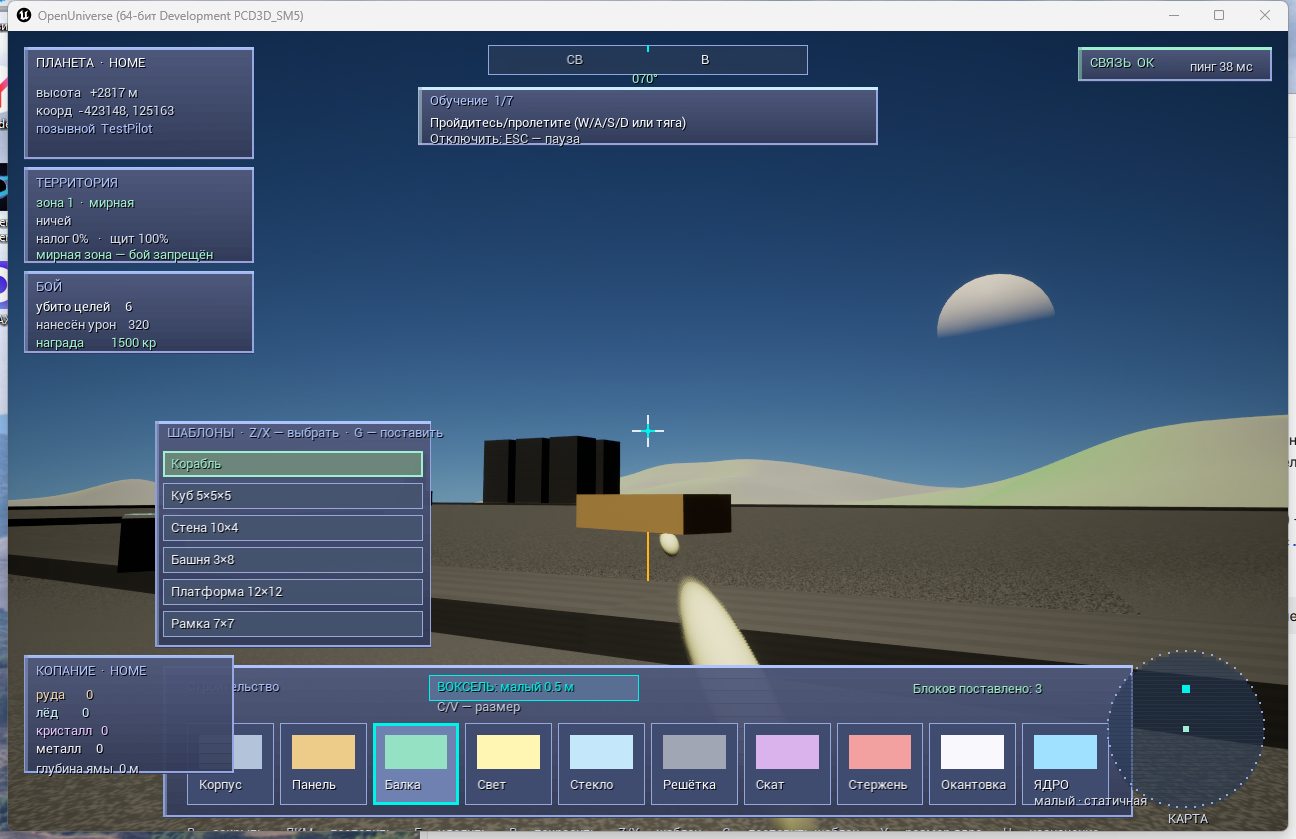
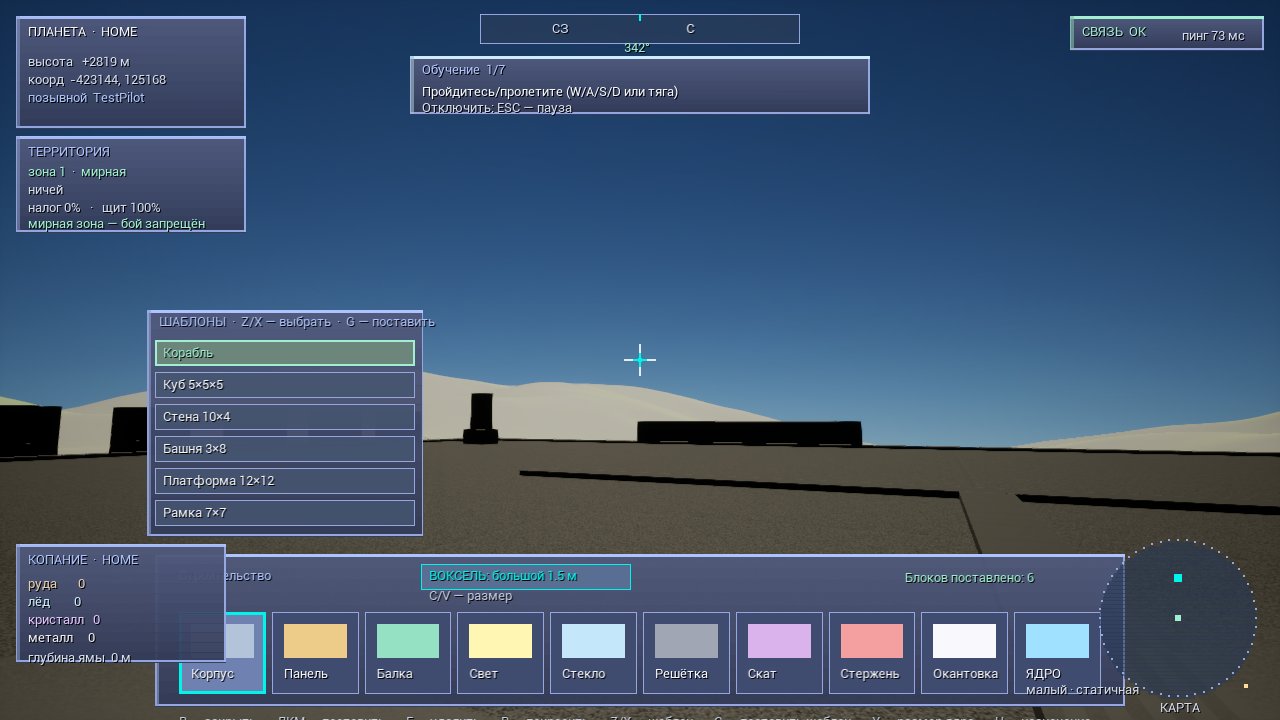
release: v0.84.0

diff --git a/i18n.js b/i18n.js
@@ -1,4 +1,4 @@
-/* Open Universe — переводы сайта.
+/* Open Universe — переводы сайта.
  *
  * Английский — язык по умолчанию, русский — переключателем в шапке.
  * HTML содержит английский текст (работает даже без JS); русский берётся отсюда.
@@ -284,7 +284,7 @@ window.OU_I18N = {
     "rep.title": "Open Universe — отчёт о разработке",
     "rep.nav.home": "← На главную",
     "rep.h1": "Отчёт о разработке",
-    "rep.intro": "Что уже работает, с доказательствами: скриншотами движка, метриками и результатами тестов. Версия <b>0.83.0</b>.",
+    "rep.intro": "Что уже работает, с доказательствами: скриншотами движка, метриками и результатами тестов. Версия <b>0.84.0</b>.",
     "rep.m.tests": "тестов ядра (Rust)",
     "rep.m.crates": "модулей (крейтов)",
     "rep.m.progress": "план выполнен",
@@ -394,12 +394,17 @@ window.OU_I18N = {
     "rep.market.lead": "Экономика проверена работающей симуляцией: агенты трёх ролей торгуют 200 тиков, деньги не печатаются. Модель — в <code>docs/economy-model.md</code>.",
     "rep.code.market": "$ cargo run -p ou-economy --bin ou-market-sim\n=== Сбалансированная экономика ===\n  цена: min 7, max 65, VWAP 25\n  активных тиков: 192 из 200 (96%)\n  проверка денег: создано/сожжено кредитов = 0\n=== Дефицит ===  цена растёт   === Избыток ===  VWAP падает до 10",
     "rep.h.build": "Воксельный редактор",
-    "rep.build.lead": "Игрок строит из вокселей: ставить, удалять, красить. Сетка разрежённая, целостность проверяется от ядра.",
+    "rep.build.lead": "Игрок строит из вокселей: ставить, удалять, красить. Сетка разрежённая, целостность проверяется от ядра. Ядра бывают размеров (16/32/64 вокселя) и трёх видов — статичная база, корабль и динамическое — с лимитами на игрока (2 / 3 / 2), а строить можно и без заранее поставленного ядра (постройку основывает первый воксель).",
     "rep.code.build": "$ cargo run -p ou-build --bin ou-build-demo\n=== Оторванный воксель ===  запрещено: оторван от ядра\n=== Ломаем середину ===     снято оторванных деталей: 1\n=== Шаблон корабля ===      31 воксель, связность ОК\n=== Детерминизм ===         повтор совпадает",
+    "rep.h.building": "Строительство в живой игре",
+    "rep.building.lead": "Кадры ниже — из реального запуска клиента на втором ПК, который ведёт сам автотест: клики мышью не нужны. Воксели по полметра, девять типов блоков в палитре, ядра с лимитами и коллизия — персонаж не проходит сквозь построенное.",
+    "rep.fig.palette": "Стройка вокселями (базовая ступень 0.5 м). В палитре внизу — девять типов блоков (корпус, панель, балка, свет, стекло, решётка, скат, стержень, окантовка) и слот <b>ЯДРО</b>; размер кисти переключается <code>C/V</code>.",
+    "rep.fig.voxelsizes": "Окно размеров вокселя (<code>V</code>): кисти 0.5 / 1 / 1.5 м. Блоки разного размера стыкуются гранями.",
     "rep.h.ue": "Каркас UE5-клиента и проверка протокола",
     "rep.ue.lead": "Движок Unreal Engine 5 установлен, C++-модуль <b>собран, редактор открывает 3D-сцену</b>, и клиент <b>подключается к Rust-серверу</b>: получает свой id, шлёт ввод 30 Гц и рисует других игроков. Стенд берёт реальный пакет Rust-сервера и разбирает его тем же кодом, что и клиент UE5.",
     "rep.fig.ueeditor": "Редактор Unreal Engine 5, карта <code>/Game/Maps/OpenUniverse</code>: воксельная планета (cube-to-sphere, рельеф из двух октав шума, цвет по высоте — океан → трава → снег). Сцена достраивается автоматически в <code>AOUGameMode</code>.",
     "rep.fig.shipping": "<b>Готовая игра</b> <code>OpenUniverse.exe</code> — собранная Shipping-версия: запускается двойным кликом <b>без установки Unreal Engine</b>. Ставится установщиком <code>OpenUniverse-Game-Setup</code> (~180 МБ): ярлыки в меню «Пуск» и на рабочем столе.",
+    "rep.h.solarsystem": "Звёздная система и игрок пешком",
     "rep.fig.uegame": "Режим игры (PIE) в UE5: игрок смотрит от первого лица с поверхности единственной большой планеты, рядом стоит корабль. Кадр сохранён <b>из движка</b>. Клиент при этом подключён к Rust-серверу.",
     "rep.fig.latest": "<b>Свежий кадр с UE-теста</b> (<code>tools/test-ue.ps1</code>): вид от первого лица, игрок стоит на поверхности большой планеты, горизонт уходит далеко и читается как земля. Этот снимок обновляется при каждом прогоне теста.",
     "rep.fig.solarsystem": "Одна большая планета радиусом 500 км и рельефом в 10 км. Остальные тела системы убраны: мир состоит из единственной планеты, а вид — от первого лица (как в классических шутерах).",
@@ -430,7 +435,7 @@ window.OU_I18N = {
     "rep.metric12": "Порог мягкой посадки",
     "rep.metric12v": "60 ед/с (иначе удар)",
     "rep.s4": "4. Результаты тестов",
-    "rep.code.tests": "$ cargo test --workspace   →  252 passed (13 крейтов)\n\nprotocol 22 · sim 31 · spatial 6 · net 5 · shard 9 · persist 14\neconomy 27 · combat 17 · render 37 · script 32 · build 15 · server 31 · client 6\n\n$ cargo run -p ou-combat --bin ou-combat-demo\n=== Шанс попадания (1000 выстрелов) ===\n  автопушка  дальность 1500:  97%  80%  62%  44%  31%\n=== Дуэль: лазер против рельсотрона ===\n  тик 27: щит 0 (0%), броня 0 (0%)  ← уничтожен\n\n$ cargo run -p ou-economy --bin ou-market-demo\n  сделка: продавец 2 → покупатель 9, 60 шт по 25 (итого 1500)\nVWAP = 26 · Всего сделок в журнале: 2\n\n$ cargo run -p ou-render --release -- voxel 900 506\n  voxel      900×506  17.44 с\n\n$ cargo run -p ou-render --release -- dig 640 360\n  dig        2 кадра → 1280×360  18.52 с  -> render-dig.png\n\n$ cargo run -p ou-server --bin ou-netd -- 127.0.0.1:7777 10 &\n$ cargo run -p ou-render --release --bin ou-netrender -- 127.0.0.1:7777 8 4\n  получено baseline: 1 · дельт: 236 · сохранено 4 кадра -> render-net.png",
+    "rep.code.tests": "$ cargo test --workspace   →  351 passed (13 крейтов)\n\nprotocol 33 · sim 33 · spatial 6 · net 5 · shard 9 · persist 14\neconomy 32 · combat 17 · render 37 · script 34 · build 20 · server 101 · client 6 · auth 4\n\n$ cargo run -p ou-combat --bin ou-combat-demo\n=== Шанс попадания (1000 выстрелов) ===\n  автопушка  дальность 1500:  97%  80%  62%  44%  31%\n=== Дуэль: лазер против рельсотрона ===\n  тик 27: щит 0 (0%), броня 0 (0%)  ← уничтожен\n\n$ cargo run -p ou-economy --bin ou-market-demo\n  сделка: продавец 2 → покупатель 9, 60 шт по 25 (итого 1500)\nVWAP = 26 · Всего сделок в журнале: 2\n\n$ cargo run -p ou-render --release -- voxel 900 506\n  voxel      900×506  17.44 с\n\n$ cargo run -p ou-render --release -- dig 640 360\n  dig        2 кадра → 1280×360  18.52 с  -> render-dig.png\n\n$ cargo run -p ou-server --bin ou-netd -- 127.0.0.1:7777 10 &\n$ cargo run -p ou-render --release --bin ou-netrender -- 127.0.0.1:7777 8 4\n  получено baseline: 1 · дельт: 236 · сохранено 4 кадра -> render-net.png",
     "rep.s5": "5. Что дальше",
     "rep.next1": "Рендер по сети — рисовать входящие UDP-снапшоты в реальном времени. ✓",
     "rep.next2": "Посадка корабля на воксельную поверхность (связь физики и рельефа). ✓",
@@ -438,8 +443,11 @@ window.OU_I18N = {
     "rep.next4": "Kubernetes и автомасштабирование (единственный пункт Фазы 3).",
     "rep.next5": "Lua-скриптинг конструкций (Фаза 8). ✓",
     "rep.next6": "Каркас проекта на Unreal Engine 5. ✓ подключён к серверу",
+    "rep.next7": "Полная проверка графики на втором ПК: стенд сам доставляет код по SSH, водит игру и снимает кадры. ✓",
+    "rep.next8": "Несколько ядер на игрока с лимитами и стройка без заранее поставленного ядра. ✓",
+    "rep.next9": "Мельче воксели (0.5 м), девять типов блоков и коллизия — персонаж не проходит сквозь. ✓",
     "rep.s6": "6. Итог",
-    "rep.summary": "Проект прошёл путь от концепта до <b>работающего ядра на Rust</b>: детерминированная симуляция, сетевой код с предсказанием, экономика, бой, персистентность и собственный рендерер, который рисует воксельные планеты и реальный мир из симуляции. План выполнен на <b>52%</b>.",
+    "rep.summary": "Проект прошёл путь от концепта до <b>работающего ядра на Rust</b>: детерминированная симуляция, сетевой код с предсказанием, экономика, бой, персистентность и собственный рендерер, который рисует воксельные планеты и реальный мир из симуляции. План выполнен на <b>90%</b>.",
     "rep.repo": "Репозиторий: <a href=\"https://github.com/andreyshpak2016-lgtm/open-universe\">github.com/andreyshpak2016-lgtm/open-universe</a>",
     "rep.back": "← Вернуться на главную",
     "rep.updated": "Отчёт обновлён"
@@ -704,7 +712,7 @@ window.OU_I18N = {
     "rep.title": "Open Universe — development report",
     "rep.nav.home": "← Back to home",
     "rep.h1": "Development report",
-    "rep.intro": "What already works, with evidence: engine screenshots, metrics and test results. Version <b>0.83.0</b>.",
+    "rep.intro": "What already works, with evidence: engine screenshots, metrics and test results. Version <b>0.84.0</b>.",
     "rep.m.tests": "core tests (Rust)",
     "rep.m.crates": "modules (crates)",
     "rep.m.progress": "plan complete",
@@ -814,12 +822,17 @@ window.OU_I18N = {
     "rep.market.lead": "The economy is verified by a running simulation: agents in three roles trade for 200 ticks, and money is not printed. The model is in <code>docs/economy-model.md</code>.",
     "rep.code.market": "$ cargo run -p ou-economy --bin ou-market-sim\n=== Balanced economy ===\n  price: min 7, max 65, VWAP 25\n  active ticks: 192 of 200 (96%)\n  money check: credits created/destroyed = 0\n=== Shortage ===  price rises   === Surplus ===  VWAP falls to 10",
     "rep.h.build": "Voxel editor",
-    "rep.build.lead": "A player builds from voxels: place, remove, paint. The grid is sparse and integrity is checked against the core.",
+    "rep.build.lead": "A player builds from voxels: place, remove, paint. The grid is sparse and integrity is checked against the core. Cores come in sizes (16/32/64 voxels) and three kinds — static base, ship and dynamic — with per-kind limits (2 / 3 / 2), and you can build without pre-placing a core (the first voxel founds the build).",
     "rep.code.build": "$ cargo run -p ou-build --bin ou-build-demo\n=== Detached voxel ===  forbidden: detached from the core\n=== Break the middle ===  detached parts removed: 1\n=== Ship blueprint ===     31 voxels, connectivity OK\n=== Determinism ===        repeat matches",
+    "rep.h.building": "Building in the live game",
+    "rep.building.lead": "The frames below are from a real client run on a second PC, driven by the automated test itself — no mouse clicks. Half-metre voxels, nine block types in the palette, cores with limits, and collision: the character cannot walk through what was built.",
+    "rep.fig.palette": "Voxels being built (0.5 m base step). The palette at the bottom shows nine block types (hull, panel, beam, light, glass, grille, ramp, rod, trim) and the <b>CORE</b> slot; brush size is switched with <code>C/V</code>.",
+    "rep.fig.voxelsizes": "The voxel-size window (<code>V</code>): 0.5 / 1 / 1.5 m brushes. Blocks of different sizes connect face to face.",
     "rep.h.ue": "UE5 client skeleton and protocol verification",
     "rep.ue.lead": "Unreal Engine 5 is installed, the C++ module <b>builds and the editor opens a 3D scene</b>, and the client <b>connects to the Rust server</b>: it receives its own id, sends input at 30 Hz and draws other players. The test harness takes a real Rust server packet and parses it with the same code as the UE5 client.",
     "rep.fig.ueeditor": "The Unreal Engine 5 editor, map <code>/Game/Maps/OpenUniverse</code>: a voxel planet (cube-to-sphere, terrain from two octaves of noise, color by height — ocean → grass → snow). The scene is assembled automatically in <code>AOUGameMode</code>.",
     "rep.fig.shipping": "<b>The finished game</b> <code>OpenUniverse.exe</code> — a built Shipping version: it launches on a double click <b>without installing Unreal Engine</b>. It is installed by <code>OpenUniverse-Game-Setup</code> (~180 MB): shortcuts in the Start menu and on the desktop.",
+    "rep.h.solarsystem": "Solar system and the player on foot",
     "rep.fig.uegame": "Play mode (PIE) in UE5: the player looks first-person across the surface of a single large planet, with the ship standing nearby. The frame was saved <b>by the engine</b>. The client is connected to the Rust server.",
     "rep.fig.latest": "<b>Fresh frame from the UE test</b> (<code>tools/test-ue.ps1</code>): first-person view, the player stands on the surface of a large planet, and the horizon stretches far away reading as land. This shot is refreshed on every test run.",
     "rep.fig.solarsystem": "A single large planet, 500 km in radius with 10 km of terrain relief. Other system bodies are removed: the world is one planet, and the view is first-person (like classic shooters).",
@@ -850,7 +863,7 @@ window.OU_I18N = {
     "rep.metric12": "Soft landing threshold",
     "rep.metric12v": "60 u/s (otherwise impact)",
     "rep.s4": "4. Test results",
-    "rep.code.tests": "$ cargo test --workspace   →  252 passed (13 crates)\n\nprotocol 22 · sim 31 · spatial 6 · net 5 · shard 9 · persist 14\neconomy 27 · combat 17 · render 37 · script 32 · build 15 · server 31 · client 6\n\n$ cargo run -p ou-combat --bin ou-combat-demo\n=== Hit chance (1000 shots) ===\n  autocannon  range 1500:  97%  80%  62%  44%  31%\n=== Duel: laser vs railgun ===\n  tick 27: shield 0 (0%), armor 0 (0%)  ← destroyed\n\n$ cargo run -p ou-economy --bin ou-market-demo\n  trade: seller 2 → buyer 9, 60 units at 25 (total 1500)\nVWAP = 26 · Trades in the log: 2\n\n$ cargo run -p ou-render --release -- voxel 900 506\n  voxel      900×506  17.44 s\n\n$ cargo run -p ou-render --release -- dig 640 360\n  dig        2 frames → 1280×360  18.52 s  -> render-dig.png\n\n$ cargo run -p ou-server --bin ou-netd -- 127.0.0.1:7777 10 &\n$ cargo run -p ou-render --release --bin ou-netrender -- 127.0.0.1:7777 8 4\n  baseline received: 1 · deltas: 236 · saved 4 frames -> render-net.png",
+    "rep.code.tests": "$ cargo test --workspace   →  351 passed (13 crates)\n\nprotocol 33 · sim 33 · spatial 6 · net 5 · shard 9 · persist 14\neconomy 32 · combat 17 · render 37 · script 34 · build 20 · server 101 · client 6 · auth 4\n\n$ cargo run -p ou-combat --bin ou-combat-demo\n=== Hit chance (1000 shots) ===\n  autocannon  range 1500:  97%  80%  62%  44%  31%\n=== Duel: laser vs railgun ===\n  tick 27: shield 0 (0%), armor 0 (0%)  ← destroyed\n\n$ cargo run -p ou-economy --bin ou-market-demo\n  trade: seller 2 → buyer 9, 60 units at 25 (total 1500)\nVWAP = 26 · Trades in the log: 2\n\n$ cargo run -p ou-render --release -- voxel 900 506\n  voxel      900×506  17.44 s\n\n$ cargo run -p ou-render --release -- dig 640 360\n  dig        2 frames → 1280×360  18.52 s  -> render-dig.png\n\n$ cargo run -p ou-server --bin ou-netd -- 127.0.0.1:7777 10 &\n$ cargo run -p ou-render --release --bin ou-netrender -- 127.0.0.1:7777 8 4\n  baseline received: 1 · deltas: 236 · saved 4 frames -> render-net.png",
     "rep.s5": "5. What's next",
     "rep.next1": "Networked rendering — draw incoming UDP snapshots in real time. ✓",
     "rep.next2": "Landing a ship on a voxel surface (linking physics and terrain). ✓",
@@ -858,8 +871,11 @@ window.OU_I18N = {
     "rep.next4": "Kubernetes and autoscaling (the only Phase 3 item left).",
     "rep.next5": "Lua scripting for constructions (Phase 8). ✓",
     "rep.next6": "Unreal Engine 5 project skeleton. ✓ connected to the server",
+    "rep.next7": "Full graphics test on a second PC: the harness ships the code over SSH, drives the game itself and captures frames. ✓",
+    "rep.next8": "Multiple cores per player with limits, and building without a pre-placed core. ✓",
+    "rep.next9": "Smaller voxels (0.5 m), nine block types and collision. ✓",
     "rep.s6": "6. Summary",
-    "rep.summary": "The project has gone from concept to a <b>working Rust core</b>: deterministic simulation, netcode with prediction, economy, combat, persistence and a custom renderer that draws voxel planets and the real world from the simulation. The plan is <b>52%</b> complete.",
+    "rep.summary": "The project has gone from concept to a <b>working Rust core</b>: deterministic simulation, netcode with prediction, economy, combat, persistence and a custom renderer that draws voxel planets and the real world from the simulation. The plan is <b>90%</b> complete.",
     "rep.repo": "Repository: <a href=\"https://github.com/andreyshpak2016-lgtm/open-universe\">github.com/andreyshpak2016-lgtm/open-universe</a>",
     "rep.back": "← Back to home",
     "rep.updated": "Report updated"

diff --git a/report.html b/report.html
@@ -1,4 +1,4 @@
-<!DOCTYPE html>
+<!DOCTYPE html>
 <html lang="en">
 <head>
   <meta charset="UTF-8" />
@@ -6,7 +6,7 @@
   <title data-i18n="rep.title">Open Universe — development report</title>
   <meta name="description" content="Open Universe development report: what is done, engine screenshots, metrics and test results." />
   <link rel="icon" href="assets/blackhole.svg" type="image/svg+xml" />
-  <link rel="stylesheet" href="styles.css?v=0.83.0" />
+  <link rel="stylesheet" href="styles.css?v=0.84.0" />
   <style>
     .report { max-width: 1100px; margin: 0 auto; padding: 0 24px 80px; }
     .report h1 { font-size: clamp(2rem, 5vw, 3rem); margin: 40px 0 8px; letter-spacing: -1px;
@@ -51,13 +51,13 @@
 
   <main class="report">
     <h1 data-i18n="rep.h1">Development report</h1>
-    <p style="font-size:1.05rem" data-i18n="rep.intro">What already works, with evidence: engine screenshots, metrics and test results. Version <b id="ver">0.83.0</b>.</p>
+    <p style="font-size:1.05rem" data-i18n="rep.intro">What already works, with evidence: engine screenshots, metrics and test results. Version <b id="ver">0.84.0</b>.</p>
 
     <div class="meta">
-      <div><b id="m-tests">223</b><span data-i18n="rep.m.tests">core tests (Rust)</span></div>
+      <div><b id="m-tests">351</b><span data-i18n="rep.m.tests">core tests (Rust)</span></div>
       <div><b id="m-crates">13</b><span data-i18n="rep.m.crates">modules (crates)</span></div>
-      <div><b id="m-progress">73%</b><span data-i18n="rep.m.progress">plan complete</span></div>
-      <div><b id="m-version">v0.83.0</b><span data-i18n="rep.m.version">latest release</span></div>
+      <div><b id="m-progress">90%</b><span data-i18n="rep.m.progress">plan complete</span></div>
+      <div><b id="m-version">v0.84.0</b><span data-i18n="rep.m.version">latest release</span></div>
     </div>
 
     <!-- ================= 1. What is done ================= -->
@@ -234,12 +234,25 @@ $ cargo run -p ou-script --bin ou-script-demo
 === Shortage ===  price rises   === Surplus ===  VWAP falls to 10</code></pre>
 
     <h3 data-i18n="rep.h.build">Voxel editor</h3>
-    <p data-i18n="rep.build.lead">A player builds from voxels: place, remove, paint. The grid is sparse and integrity is checked against the core.</p>
+    <p data-i18n="rep.build.lead">A player builds from voxels: place, remove, paint. The grid is sparse and integrity is checked against the core. Cores come in sizes (16/32/64 voxels) and three kinds — static base, ship and dynamic — with per-kind limits (2 / 3 / 2), and you can build without pre-placing a core (the first voxel founds the build).</p>
     <pre class="codeblock"><code data-i18n="rep.code.build">$ cargo run -p ou-build --bin ou-build-demo
 === Detached voxel ===  forbidden: detached from the core
 === Break the middle ===  detached parts removed: 1
 === Ship blueprint ===     31 voxels, connectivity OK
 === Determinism ===        repeat matches</code></pre>
+
+    <h3 data-i18n="rep.h.building">Building in the live game</h3>
+    <p data-i18n="rep.building.lead">Frames below come from a real run of the client on a second PC, driven by the automated test itself — no mouse clicks. Half-metre voxels, nine block types in the palette, cores with limits, and collision: the character cannot walk through what was built.</p>
+    <div class="two">
+      <figure class="shot">
+        <img src="assets/ue-build-palette.png" alt="Live build run: palette with nine block types and the CORE slot, voxels placed in the world" />
+        <figcaption data-i18n="rep.fig.palette">Voxels being built (0.5 m base step). The palette at the bottom shows nine block types (hull, panel, beam, light, glass, grille, ramp, rod, trim) and the <b>CORE</b> slot; brush size is switched with <code>C/V</code>.</figcaption>
+      </figure>
+      <figure class="shot">
+        <img src="assets/ue-voxel-sizes.png" alt="Voxel size window: 1×1, 2×2, 3×3 brushes" />
+        <figcaption data-i18n="rep.fig.voxelsizes">The voxel-size window (<code>V</code>): 0.5 / 1 / 1.5 m brushes. Blocks of different sizes connect face to face.</figcaption>
+      </figure>
+    </div>
 
     <h3 data-i18n="rep.h.ue">UE5 client skeleton and protocol verification</h3>
     <p data-i18n="rep.ue.lead">Unreal Engine 5 is installed, the C++ module <b>builds and the editor opens a 3D scene</b>, and the client <b>connects to the Rust server</b>: it receives its own id, sends input at 30 Hz and draws other players. The test harness takes a real Rust server packet and parses it with the same code as the UE5 client.</p>
@@ -319,8 +332,9 @@ $ cargo run -p ou-render --release --bin ou-netrender -- 127.0.0.1:7777 8 4
     <!-- ================= 5. What's next ================= -->
     <h2 data-i18n="rep.s5">5. What's next</h2>
     <ul class="done next">
-      <li data-i18n="rep.next1">Networked rendering — draw incoming UDP snapshots in real time. ✓</li>
-      <li data-i18n="rep.next2">Landing a ship on a voxel surface (linking physics and terrain). ✓</li>
+      <li data-i18n="rep.next7">Full graphics test on a second PC: the harness ships the code over SSH, drives the game itself and captures frames. ✓</li>
+      <li data-i18n="rep.next8">Multiple cores per player with limits, and building without a pre-placed core. ✓</li>
+      <li data-i18n="rep.next9">Smaller voxels (0.5 m) with nine block types and collision. ✓</li>
       <li data-i18n="rep.next3">Sharding: migrating state between nodes (currently routing).</li>
       <li data-i18n="rep.next4">Kubernetes and autoscaling (the only Phase 3 item left).</li>
       <li data-i18n="rep.next5">Lua scripting for constructions (Phase 8). ✓</li>
@@ -328,7 +342,7 @@ $ cargo run -p ou-render --release --bin ou-netrender -- 127.0.0.1:7777 8 4
     </ul>
 
     <h2 data-i18n="rep.s6">6. Summary</h2>
-    <p data-i18n="rep.summary">The project has gone from concept to a <b>working Rust core</b>: deterministic simulation, netcode with prediction, economy, combat, persistence and a custom renderer that draws voxel planets and the real world from the simulation. The plan is <b>52%</b> complete.</p>
+    <p data-i18n="rep.summary">The project has gone from concept to a <b>working Rust core</b>: deterministic simulation, netcode with prediction, economy, combat, persistence and a custom renderer that draws voxel planets and the real world from the simulation. The plan is <b>90%</b> complete.</p>
     <p data-i18n="rep.repo">Repository: <a href="https://github.com/andreyshpak2016-lgtm/open-universe">github.com/andreyshpak2016-lgtm/open-universe</a></p>
 
     <a class="btn primary back" href="index.html" data-i18n="rep.back">← Back to home</a>
@@ -341,7 +355,7 @@ $ cargo run -p ou-render --release --bin ou-netrender -- 127.0.0.1:7777 8 4
     </div>
   </footer>
 
-  <script src="i18n.js?v=0.83.0"></script>
+  <script src="i18n.js?v=0.84.0"></script>
   <script>
     (function () {
       "use strict";

diff --git a/index.html b/index.html
@@ -1,4 +1,4 @@
-<!DOCTYPE html>
+<!DOCTYPE html>
 <html lang="en">
 <head>
   <meta charset="UTF-8" />
@@ -6,7 +6,7 @@
   <title data-i18n="page.title">Open Universe — an open-space MMO sandbox</title>
   <meta name="description" content="Open Universe — one living universe, voxel building, a player-driven economy and programmable constructions. A development plan with live progress." />
   <link rel="icon" href="assets/blackhole.svg" type="image/svg+xml" />
-  <link rel="stylesheet" href="styles.css?v=0.83.0" />
+  <link rel="stylesheet" href="styles.css?v=0.84.0" />
 </head>
 <body>
 
@@ -296,7 +296,7 @@ VWAP = 26 · Trades in the log: 2</code></pre>
       <div class="download-grid">
         <div class="panel dl-card">
           <div class="dl-head">
-            <span class="dl-ver" id="dl-version">v0.83.0</span>
+            <span class="dl-ver" id="dl-version">v0.84.0</span>
             <span class="hero-badge" style="font-size:.72rem"><span class="dot"></span> <span data-i18n="dl.latestBadge">Latest version</span></span>
           </div>
           <h3 data-i18n="dl.cardTitle">Open Universe launcher</h3>
@@ -428,8 +428,8 @@ powershell -File tools/test-client.ps1</code></pre>
     <span aria-hidden="true">❤</span> <span data-i18n="sponsor.fab">Become a sponsor</span>
   </a>
 
-  <script src="i18n.js?v=0.83.0"></script>
-  <script src="data.js?v=0.83.0"></script>
-  <script src="app.js?v=0.83.0"></script>
+  <script src="i18n.js?v=0.84.0"></script>
+  <script src="data.js?v=0.84.0"></script>
+  <script src="app.js?v=0.84.0"></script>
 </body>
 </html>

diff --git a/CHANGELOG.md b/CHANGELOG.md
@@ -3,6 +3,36 @@
 Все значимые изменения проекта. Формат близок к [Keep a Changelog](https://keepachangelog.com/ru/1.1.0/),
 версии — [SemVer](https://semver.org/lang/ru/).
 
+## [0.84.0] — 2026-11-16
+
+Постройка стала гибкой: мельче воксели, больше форм, несколько ядер с лимитами,
+стройка без ядра; тесты графики гоняются на втором ПК по SSH со скриншотами.
+
+### Добавлено
+- **Несколько ядер на игрока с лимитами.** Ядро задаёт размер постройки
+  (16/32/64 вокселя) и назначение: статичная база (2), корабль (3),
+  динамическое ядро (2) — бывшее «орбитальное», ставится где угодно. Каждое
+  ядро — отдельная постройка со своим id; команды стройки идут в активное ядро.
+- **Стройка без ядра.** Первый поставленный воксель сам основывает постройку
+  (он же становится её ядром) и не тратит лимит ядер.
+- **Мельче воксели:** базовая ступень 0.5 м, кисть 0.5 / 1 / 1.5 м (было
+  1.5 / 3 / 4.5 м). Ядро — 8/16/32 м.
+- **Больше типов блоков в палитре:** 9 типов (корпус, панель, балка, свет,
+  стекло, решётка, скат, стержень, окантовка) + слот «ЯДРО».
+- **Радиус постройки** (каркас области ядра) показывается при наведении прицела
+  на ядро и как превью при выборе слота «ЯДРО».
+- **Удалённый прогон тестов** (`tools/test-remote.ps1`): доставляет свежий код
+  на второй ПК по SSH (git bundle), запускает проверки в headless-режиме,
+  снимает графические кадры и забирает их обратно — мышь второго ПК не нужна.
+
+### Исправлено
+- Воксели разного размера больше не накладываются: новый куб выравнивается по
+  всем осям и ставится в ближайшую свободную ячейку с учётом размеров.
+- Мелкий воксель ставится в **любое место грани** среднего/большого вокселя,
+  а не только к его углу.
+- Персонаж не проходит сквозь воксели: коллизия на канал `Pawn` плюс
+  выталкивание, если игрок оказался внутри блока.
+
 ## [0.83.0] — 2026-11-15
 
 Модули корабля: трюм, баки и энергосеть стали реальными.
